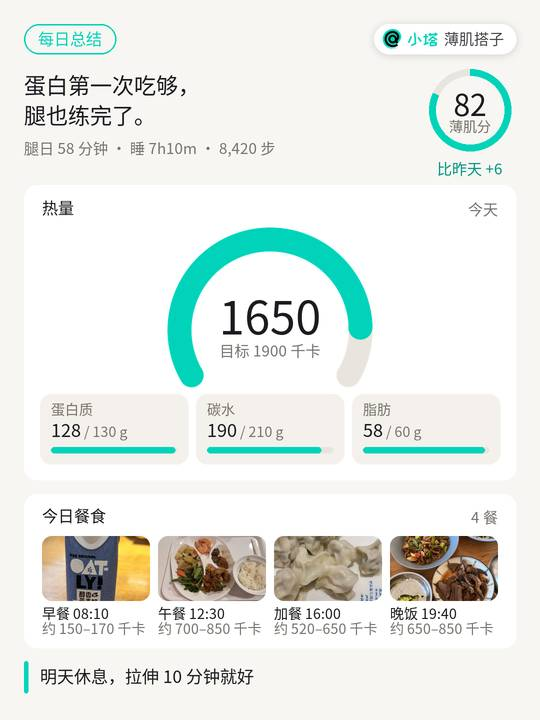
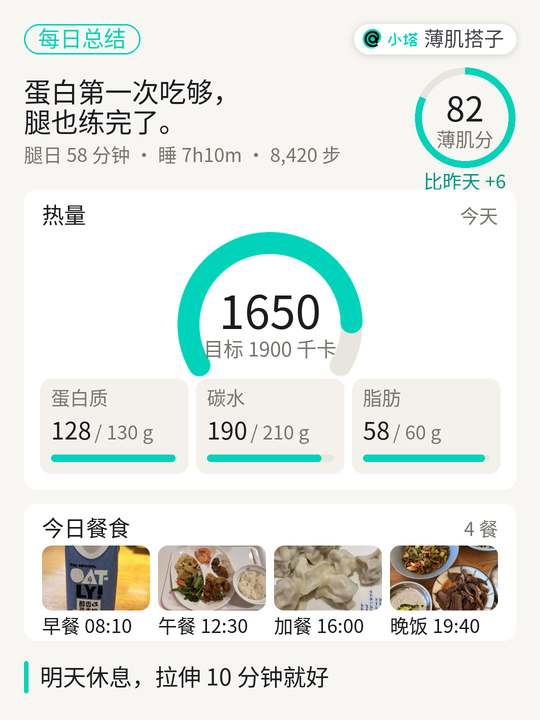
skill 0.4.6: phone-legible cards (smallest text 38 px), taller tiles, bigger score rings, fewer items instead of smaller text

diff --git a/skills/meiri-baoji/scripts/checkin_card.py b/skills/meiri-baoji/scripts/checkin_card.py
@@ -289,7 +289,7 @@ def tomorrow(d, text, y=H - 118):
     d.text((80, y + 32), text, font=F(size), fill=T["ink"], anchor="lm")
 
 
-TILE_H = 140
+TILE_H = 190
 
 
 def nutrient_tiles(d, x0, x1, y, items, h=TILE_H, fill=None):
@@ -302,23 +302,23 @@ def nutrient_tiles(d, x0, x1, y, items, h=TILE_H, fill=None):
         d.rounded_rectangle((x, y, x + cw, y + h), 22, fill=fill or T["tile"])
         mark("box", (x, y, x + cw, y + h))
         inner = cw - 44
-        d.text((x + 22, y + 18), fit(d, name, 22, inner)[0], font=F(22), fill=T["sub"])
+        d.text((x + 22, y + 20), fit(d, name, 22, inner)[0], font=F(22), fill=T["sub"])
         size = 36
         while size > 26 and d.textlength(value, font=F(size)) + 6 + d.textlength(rest, font=F(22)) > inner:
             size -= 2
         if d.textlength(value, font=F(size)) + 6 + d.textlength(rest, font=F(22)) > inner:
             rest = "g" if rest else rest
         value, size = fit(d, value, size, inner - (d.textlength(rest, font=F(22)) + 6 if rest else 0), 22)
-        base = y + 86
+        base = y + 122
         d.text((x + 22, base), value, font=F(size), fill=T["ink"], anchor="ls")
         if rest:
             d.text((x + 22 + d.textlength(value, font=F(size)) + 6, base), rest, font=F(22), fill=T["sub"], anchor="ls")
         if frac is not None:
-            by, bx1 = y + h - 34, x + cw - 22
-            d.rounded_rectangle((x + 22, by, bx1, by + 12), 6, fill=T["track"])
-            d.rounded_rectangle((x + 22, by, x + 22 + max(12, int((bx1 - x - 22) * max(0, min(frac, 1)))), by + 12),
-                                6, fill=TEAL)
-            mark("bar", (x + 22, by, bx1, by + 12))
+            by, bx1 = y + h - 38, x + cw - 22
+            d.rounded_rectangle((x + 22, by, bx1, by + 14), 7, fill=T["track"])
+            d.rounded_rectangle((x + 22, by, x + 22 + max(14, int((bx1 - x - 22) * max(0, min(frac, 1)))), by + 14),
+                                7, fill=TEAL)
+            mark("bar", (x + 22, by, bx1, by + 14))
 
 
 def macro_items(macros):
@@ -332,14 +332,14 @@ def macro_items(macros):
     return items[:3]
 
 
-def score_ring(d, cx, cy, score, label, r=82, on_photo=False):
+def score_ring(d, cx, cy, score, label, r=100, on_photo=False):
     if on_photo:
         d.ellipse((cx - r - 12, cy - r - 12, cx + r + 12, cy + r + 12), fill=(0, 0, 0))
     ring(d, cx, cy, r, 14, score / 100, TEAL, (70, 70, 70) if on_photo else T["track"])
     ink = (255, 255, 255) if on_photo else T["ink"]
     score, size = fit(d, score, 60, 2 * r - 44, 36)
-    d.text((cx, cy - 10), score, font=F(size), fill=ink, anchor="mm")
-    d.text((cx, cy + 34), fit(d, label, 20, 2 * r - 40)[0], font=F(20), fill=(190, 190, 190) if on_photo else T["sub"], anchor="mm")
+    d.text((cx, cy - 16), score, font=F(size), fill=ink, anchor="mm")
+    d.text((cx, cy + 44), fit(d, label, 20, 2 * r - 40)[0], font=F(20), fill=(190, 190, 190) if on_photo else T["sub"], anchor="mm")
 
 
 def photo_hero(photo, h, mono, focus=(0.5, 0.5)):
@@ -529,7 +529,7 @@ def workout(spec):
     d.text((48 + d.textlength(big, font=F(size)) + 16, hero_h - 54), "分钟", font=F(38), fill=(255, 255, 255),
            anchor="ls")
     if spec.get("score") is not None:
-        score_ring(d, W - 130, hero_h - 92, spec["score"], spec.get("score_label") or "运动分", r=68, on_photo=True)
+        score_ring(d, W - 150, hero_h - 118, spec["score"], spec.get("score_label") or "运动分", r=96, on_photo=True)
     y = hero_h + 30
     if stats:
         cw = (W - 96 - (len(stats) - 1) * 16) // len(stats)
@@ -582,8 +582,8 @@ def daily_nutrition(spec):
     # Lay the blocks out first so a day with little data sits in the middle of the card, not at the top.
     n_lines = len(summary_lines(d, spec.get("summary"), 44, W - 96 - (220 if has_score else 0)))
     head_h = 230 if (has_score or activity) else (n_lines * 60 + 50 if n_lines else 0)
-    card_h = (590 if items else 450) if goal else 230 + (TILE_H + 32 if items else 0)
-    meals_h = (28 + 308) if meals else 0
+    card_h = (600 if items else 450) if goal else 230 + (TILE_H + 32 if items else 0)
+    meals_h = (28 + 274) if meals else 0
     bottom = H - 150 if spec.get("tomorrow") else H - 48
     y0 = 140 + max(0, (bottom - 140 - head_h - card_h - meals_h) // 2)
     for i, ln in enumerate(summary_lines(d, spec.get("summary"), 44, W - 96 - (220 if has_score else 0))):
@@ -591,21 +591,21 @@ def daily_nutrition(spec):
     if activity:
         d.text((48, y0 + 142), fit(d, activity, 24, W - 340)[0], font=F(24), fill=T["sub"])
     if has_score:
-        cx, cy = W - 140, y0 + 80
+        cx, cy = W - 150, y0 + 86
         score_ring(d, cx, cy, spec["score"], "薄肌分")
         if spec.get("delta"):
-            d.text((cx, cy + 118), "比昨天 %s" % spec["delta"], font=F(24), fill=T["accent_text"], anchor="mm")
+            d.text((cx, cy + 128), "比昨天 %s" % spec["delta"], font=F(24), fill=T["accent_text"], anchor="mm")
     top = y0 + head_h
     bot = top + card_h  # the gauge needs a goal; without one the card shows just the number
     d.rounded_rectangle((48, top, W - 48, bot), R, fill=T["tile"])
     d.text((84, top + 30), "热量", font=F(28), fill=T["ink"])
     d.text((W - 84, top + 34), "今天", font=F(24), fill=T["sub"], anchor="ra")
     if goal:
-        gcx, gcy = W // 2, top + 290
-        gauge(im, gcx, gcy, 205, 48, spec["kcal"] / goal)
+        gcx, gcy = W // 2, top + 270
+        gauge(im, gcx, gcy, 185, 44, spec["kcal"] / goal)
         kcal, size = fit(d, spec["kcal"], 92, 300, 48)
         d.text((gcx, gcy - 24), kcal, font=F(size), fill=T["ink"], anchor="mm")
-        d.text((gcx, gcy + 42), fit(d, "目标 %s 千卡" % goal, 26, 300)[0], font=F(26), fill=T["sub"], anchor="mm")
+        d.text((gcx, gcy + 50), fit(d, "目标 %s 千卡" % goal, 26, 270)[0], font=F(26), fill=T["sub"], anchor="mm")
     else:
         kcal, size = fit(d, "约 %d" % spec["kcal"], 92, 600, 48)
         d.text((84, top + 190), kcal, font=F(size), fill=T["ink"], anchor="ls")
@@ -613,7 +613,7 @@ def daily_nutrition(spec):
     if items:
         nutrient_tiles(d, 80, W - 80, bot - TILE_H - 32, items, fill=T["inset"])
     if meals:
-        top2, bot2 = bot + 28, bot + 336
+        top2, bot2 = bot + 28, bot + 302
         d.rounded_rectangle((48, top2, W - 48, bot2), R, fill=T["tile"])
         d.text((84, top2 + 28), "今日餐食", font=F(28), fill=T["ink"])
         d.text((W - 84, top2 + 32), "%d 餐" % len(meals), font=F(24), fill=T["sub"], anchor="ra")
@@ -631,9 +631,6 @@ def daily_nutrition(spec):
                 meal_placeholder(im, d, (x, y, x + cw, y + 130), m.get("name"), m.get("desc"))
             label = " ".join(str(v) for v in (m.get("name"), m.get("time")) if v)
             d.text((x, y + 142), fit(d, label, 22, cw)[0], font=F(22), fill=T["ink"])
-            if m.get("kcal"):
-                k, size = fit(d, "约 %s 千卡" % bare(m["kcal"], "千卡").lstrip("约 "), 20, cw, 16)
-                d.text((x, y + 172), k, font=F(size), fill=T["sub"])
         if len(meals) > 4:
             x = 84 + 3 * (cw + gap)
             d.rounded_rectangle((x, y, x + cw, y + 130), 20, fill=soft_teal())
@@ -653,10 +650,8 @@ def daily_timeline(spec):
     header(im, d, "每日总结")
     tx0 = 48
     if spec.get("score") is not None:
-        ring(d, 140, 250, 86, 14, spec["score"] / 100, TEAL, T["track"])
-        d.text((140, 240), str(spec["score"]), font=F(64), fill=T["ink"], anchor="mm")
-        d.text((140, 284), "薄肌分", font=F(20), fill=T["sub"], anchor="mm")
-        tx0 = 270
+        score_ring(d, 148, 256, spec["score"], "薄肌分", r=104)
+        tx0 = 280
     for i, ln in enumerate(summary_lines(d, spec.get("summary"), 42, W - 48 - tx0)):
         d.text((tx0, 190 + i * 58), ln, font=F(42), fill=T["ink"])
     facts = []
@@ -737,7 +732,7 @@ def daily_workout(spec):
     if spec.get("label"):
         d.text((48, hero_h - 142 - (len(lines) - 1) * 68), spec["label"], font=F(28), fill=TEAL)
     if spec.get("score") is not None:
-        score_ring(d, W - 140, hero_h - 130, spec["score"], spec.get("score_label") or "运动分")
+        score_ring(d, W - 150, hero_h - 140, spec["score"], spec.get("score_label") or "运动分")
     y = hero_h + 10
     if stats:
         cw = (W - 96 - (len(stats) - 1) * 16) // len(stats)
@@ -806,13 +801,13 @@ def daily_workout(spec):
 
 
 # Cards are read on a phone at about a third of their 1080 px width, so small text is raised to stay legible
-# (28 px on the card ≈ 10 pt on screen). Larger sizes keep their hierarchy.
-PHONE_MIN = {20: 28, 22: 28, 24: 30, 26: 30, 28: 32, 30: 34, 32: 34}
+# (a 1080 px card opened full-screen is ~390 pt wide: 38 px ≈ 14 pt, the smallest text we allow). Larger sizes keep their hierarchy.
+PHONE_MIN = {20: 38, 22: 38, 24: 38, 26: 40, 28: 44, 30: 44, 32: 46, 36: 48, 38: 48, 40: 52, 42: 52, 44: 54, 52: 60, 54: 60, 60: 68, 64: 72}
 
 
 def phone_fonts(load):
     def F(size):
-        return load(PHONE_MIN.get(size, max(size, 28)))
+        return load(PHONE_MIN.get(size, max(size, 38)))
 
     return F
 

diff --git a/CHANGELOG.md b/CHANGELOG.md
@@ -10,7 +10,7 @@
 
 用户能感受到的变化：
 - 每天晚上会收到一张当天的总结卡（饮食为主、训练为主或时间线），哪怕当天只练了一次、没记饮食；当天什么都没记就不发。也可以随时说“今天总结一下”。
-- 卡片上的字更大了，手机上看得清；训练总结卡能完整显示四五个动作。
+- 卡片上的字大了很多（最小的字也有手机上 14 号字那么大），点开就看得清；放不下的内容会少放几项，不再把字缩小。
 - 每日总结里的今日餐食铺满一整行；没拍照的那顿换成浅色小格加小图标和菜名，时间线里没照片的事件也有小图标。
 - 发饭菜或训练后，教练的点评更具体：好在哪、下一顿或下一次具体怎么做，语气里有鼓励和体谅。
 - 自己定的目标接连没做到时，教练不只是安慰，有时会拿你自己定的目标督促你，约一个具体的时间补上。
